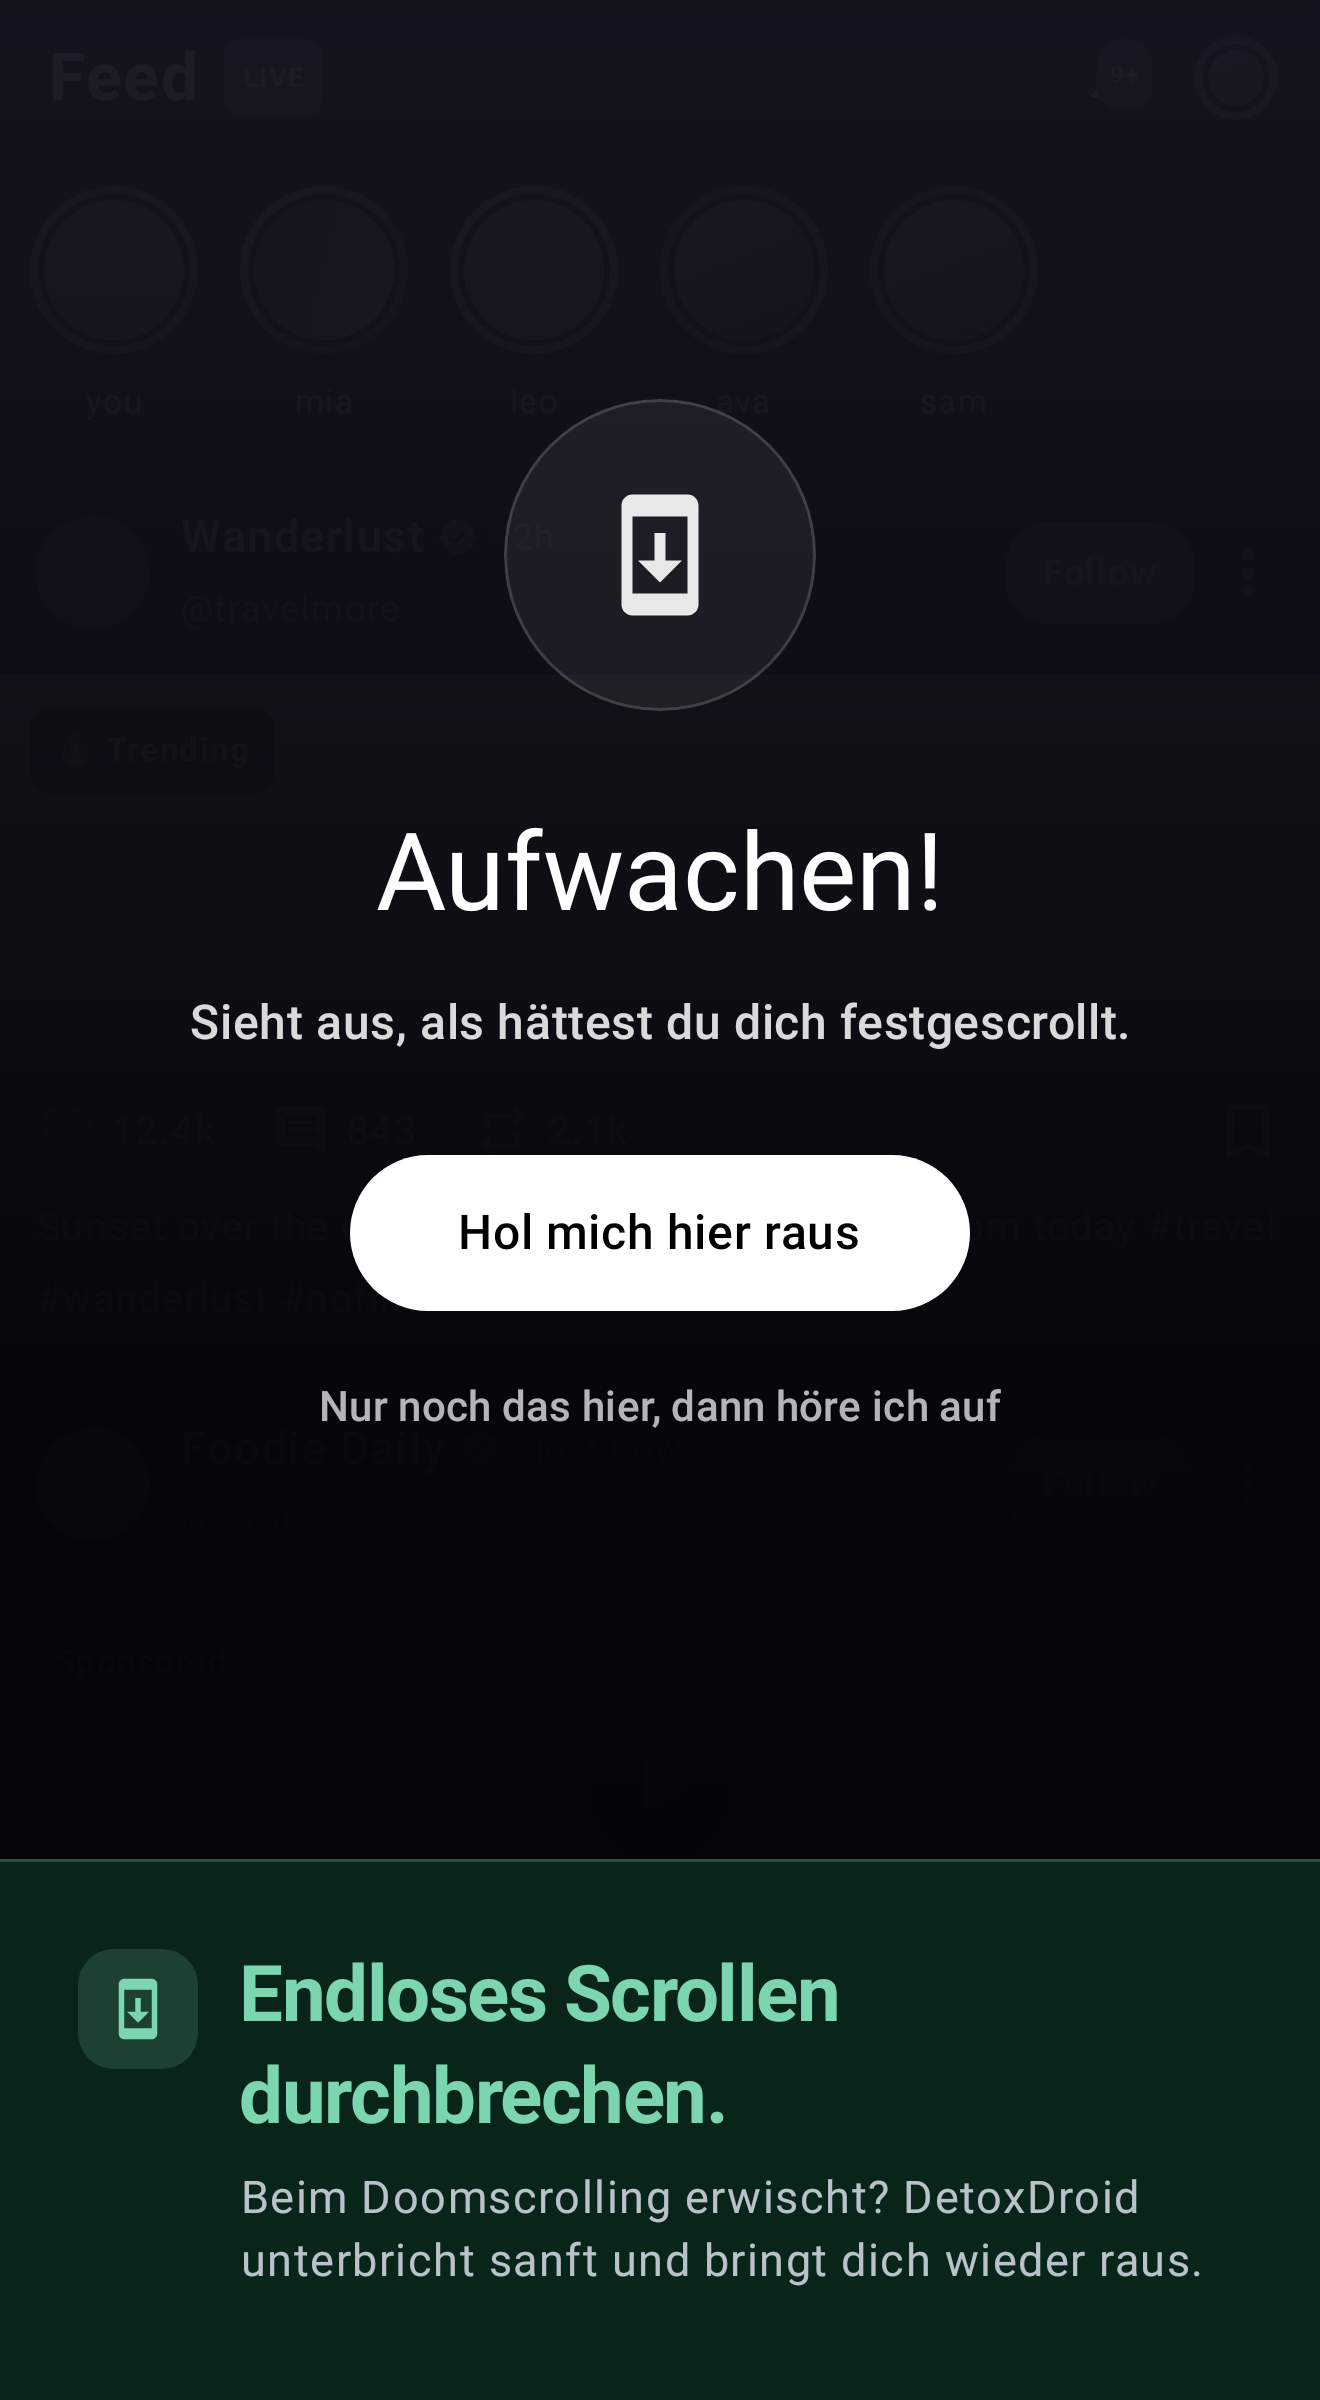
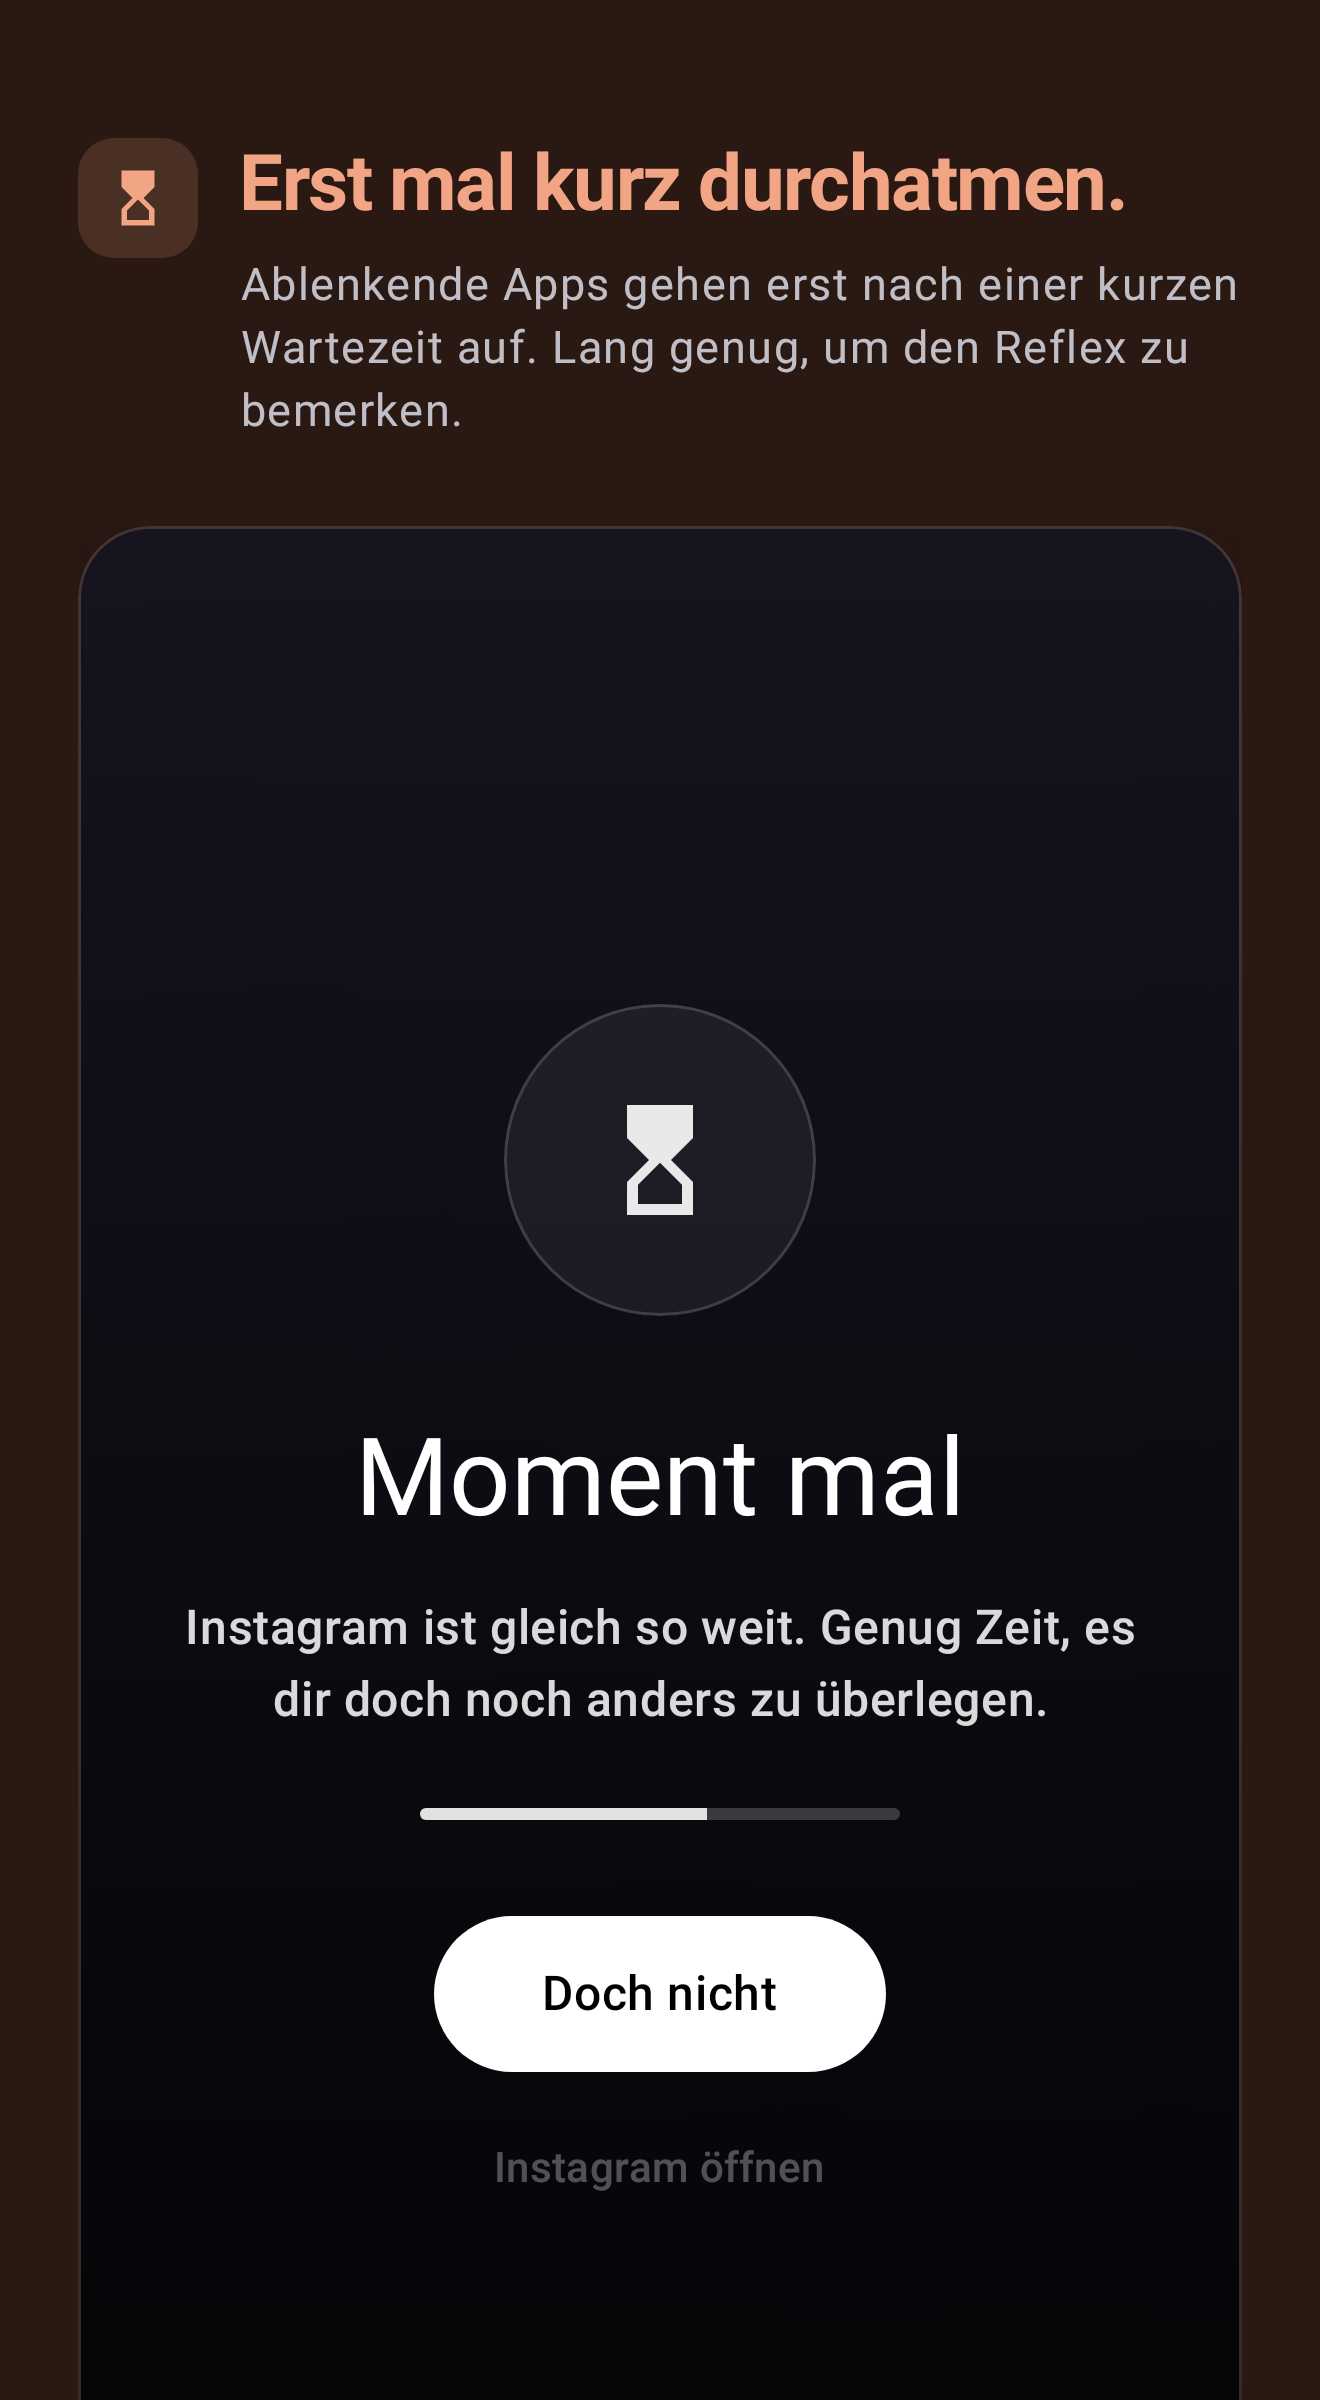
chore: add the wait before opening screen to the store screenshots

diff --git a/app/src/test/java/com/flx_apps/digitaldetox/screenshot/StoreScreenshotTest.kt b/app/src/test/java/com/flx_apps/digitaldetox/screenshot/StoreScreenshotTest.kt
@@ -1,12 +1,14 @@
 package com.flx_apps.digitaldetox.screenshot
 
 import android.os.Looper
+import android.os.SystemClock
 import androidx.activity.compose.setContent
 import androidx.annotation.StringRes
 import androidx.compose.foundation.layout.Box
 import androidx.compose.foundation.layout.fillMaxSize
 import androidx.compose.runtime.Composable
 import androidx.compose.material.icons.Icons
+import androidx.compose.material.icons.outlined.HourglassTop
 import androidx.compose.material.icons.outlined.QueryStats
 import androidx.compose.material.icons.outlined.Widgets
 import androidx.compose.ui.Modifier
@@ -25,6 +27,7 @@ import com.flx_apps.digitaldetox.R
 import com.flx_apps.digitaldetox.data.DailyAppUsageDao
 import com.flx_apps.digitaldetox.data.DailyGrayscaleStatsDao
 import com.flx_apps.digitaldetox.ui.screens.feature.break_doom_scrolling.BreakDoomScrollingOverlay
+import com.flx_apps.digitaldetox.ui.screens.feature.disable_apps.WaitBeforeOpeningScreen
 import com.flx_apps.digitaldetox.ui.screens.nav_host.NavHostScreen
 import com.flx_apps.digitaldetox.ui.screens.nav_host.NavViewModel
 import com.flx_apps.digitaldetox.ui.screens.nav_host.NavigationRoutes
@@ -52,7 +55,7 @@ import javax.inject.Inject
 
 /**
  * Generates the Play Store / F-Droid phone screenshots into
- * `fastlane/metadata/android/<locale>/images/phoneScreenshots/1.png … 6.png`.
+ * `fastlane/metadata/android/<locale>/images/phoneScreenshots/1.png … 7.png`.
  *
  * Real app screens (home, usage-stats) are driven through the real [MainActivity]/[NavHostScreen]
  * — they cannot be instantiated standalone because `NavViewModel.navViewModel()` casts the local
@@ -151,12 +154,45 @@ class StoreScreenshotTest {
         shape = CardShape.CaptionUnder,
     ) { MockExceptionsScene() }
 
-    // ── 4 · Break doomscrolling ──────────────────────────────────────────────
+    // ── 4 · Wait before opening ──────────────────────────────────────────────
     @Test
-    fun screenshot_4_doomscrolling() = captureScene(
-        index = 4,
-        titleRes = R.string.screenshot_4_title,
-        subtitleRes = R.string.screenshot_4_subtitle,
+    fun screenshot_4_waitBeforeOpening() {
+        // The bar drains over the wait, and a clock left to run finishes it before the capture.
+        // Stopped after a few frames, the screenshot shows the bar partway down and the app not
+        // yet open.
+        composeRule.mainClock.autoAdvance = false
+        captureScene(
+            index = 4,
+            titleRes = R.string.screenshot_4_title,
+            subtitleRes = R.string.screenshot_4_subtitle,
+            style = Slot.Wait,
+            icon = { rememberVectorPainter(Icons.Outlined.HourglassTop) },
+            // Caption on top and laid out at phone height, cut below the buttons: the break screen
+            // right after it runs edge to edge with the caption below, and two dark screens framed
+            // the same way back to back would read as one. The cut also keeps the screen's own
+            // spacing, which a panel of the card's height squeezes out.
+            shape = CardShape.Bleed,
+            afterCompose = {
+                shadowOf(Looper.getMainLooper()).idle()
+                repeat(5) { composeRule.mainClock.advanceTimeByFrame() }
+            },
+        ) {
+            WaitBeforeOpeningScreen(
+                appLabel = "Instagram",
+                waitMs = 30_000L,
+                opensAtMs = SystemClock.elapsedRealtime() + 18_000L,
+                onOpen = {},
+                onLeave = {},
+            )
+        }
+    }
+
+    // ── 5 · Break doomscrolling ──────────────────────────────────────────────
+    @Test
+    fun screenshot_5_doomscrolling() = captureScene(
+        index = 5,
+        titleRes = R.string.screenshot_5_title,
+        subtitleRes = R.string.screenshot_5_subtitle,
         style = Slot.Doomscroll,
         icon = { painterResource(R.drawable.ic_scroll) },
         // Edge to edge: the break screen is a whole phone, not a panel.
@@ -168,12 +204,12 @@ class StoreScreenshotTest {
         }
     }
 
-    // ── 5 · Usage stats — In Perspective ─────────────────────────────────────
+    // ── 6 · Usage stats — In Perspective ─────────────────────────────────────
     @Test
-    fun screenshot_5_usageStats() = captureApp(
-        index = 5,
-        titleRes = R.string.screenshot_5_title,
-        subtitleRes = R.string.screenshot_5_subtitle,
+    fun screenshot_6_usageStats() = captureApp(
+        index = 6,
+        titleRes = R.string.screenshot_6_title,
+        subtitleRes = R.string.screenshot_6_subtitle,
         style = Slot.UsageStats,
         icon = { rememberVectorPainter(Icons.Outlined.QueryStats) },
         // The top-apps list carries on past the crop, which is the point of the screen.
@@ -194,12 +230,12 @@ class StoreScreenshotTest {
         },
     )
 
-    // ── 6 · Minimal launcher (text-only home screen) ─────────────────────────
+    // ── 7 · Minimal launcher (text-only home screen) ─────────────────────────
     @Test
-    fun screenshot_6_minimalLauncher() = captureScene(
-        index = 6,
-        titleRes = R.string.screenshot_6_title,
-        subtitleRes = R.string.screenshot_6_subtitle,
+    fun screenshot_7_minimalLauncher() = captureScene(
+        index = 7,
+        titleRes = R.string.screenshot_7_title,
+        subtitleRes = R.string.screenshot_7_subtitle,
         style = Slot.Launcher,
         icon = { rememberVectorPainter(Icons.Outlined.Widgets) },
         // Edge to edge: a home screen inside a 26 dp gutter stops reading as a home screen.
@@ -216,8 +252,9 @@ class StoreScreenshotTest {
         style: MarketingStyle,
         icon: @Composable () -> Painter,
         shape: CardShape,
+        afterCompose: () -> Unit = {},
         scene: @Composable () -> Unit,
-    ) = capture(index, titleRes, subtitleRes) { title, subtitle ->
+    ) = capture(index, titleRes, subtitleRes, afterCompose) { title, subtitle ->
         MarketingCard(title, subtitle, style, icon, shape) { scene() }
     }
 

diff --git a/app/src/test/java/com/flx_apps/digitaldetox/screenshot/MarketingCard.kt b/app/src/test/java/com/flx_apps/digitaldetox/screenshot/MarketingCard.kt
@@ -71,6 +71,7 @@ object Slot {
     val Hero = MarketingStyle(accent = Color(0xFF97A9F2), background = Color(0xFF141B3A))
     val Grayscale = MarketingStyle(accent = Color(0xFF6FD2E0), background = Color(0xFF0A2B36))
     val Exceptions = MarketingStyle(accent = Color(0xFFF5CD5C), background = Color(0xFF16233C))
+    val Wait = MarketingStyle(accent = Color(0xFFF2A585), background = Color(0xFF2A1812))
     val Doomscroll = MarketingStyle(accent = Color(0xFF7BD5AF), background = Color(0xFF092519))
     val UsageStats = MarketingStyle(accent = Color(0xFF7BB8F4), background = Color(0xFF09192A))
     val Launcher = MarketingStyle(accent = Color(0xFFB399E6), background = Color(0xFF1C1726))

diff --git a/app/src/main/java/com/flx_apps/digitaldetox/ui/screens/feature/disable_apps/WaitBeforeOpeningActivity.kt b/app/src/main/java/com/flx_apps/digitaldetox/ui/screens/feature/disable_apps/WaitBeforeOpeningActivity.kt
@@ -156,7 +156,7 @@ class WaitBeforeOpeningActivity : ComponentActivity() {
  * opening the app only once the bar is empty.
  */
 @Composable
-private fun WaitBeforeOpeningScreen(
+internal fun WaitBeforeOpeningScreen(
     appLabel: String,
     waitMs: Long,
     opensAtMs: Long,
